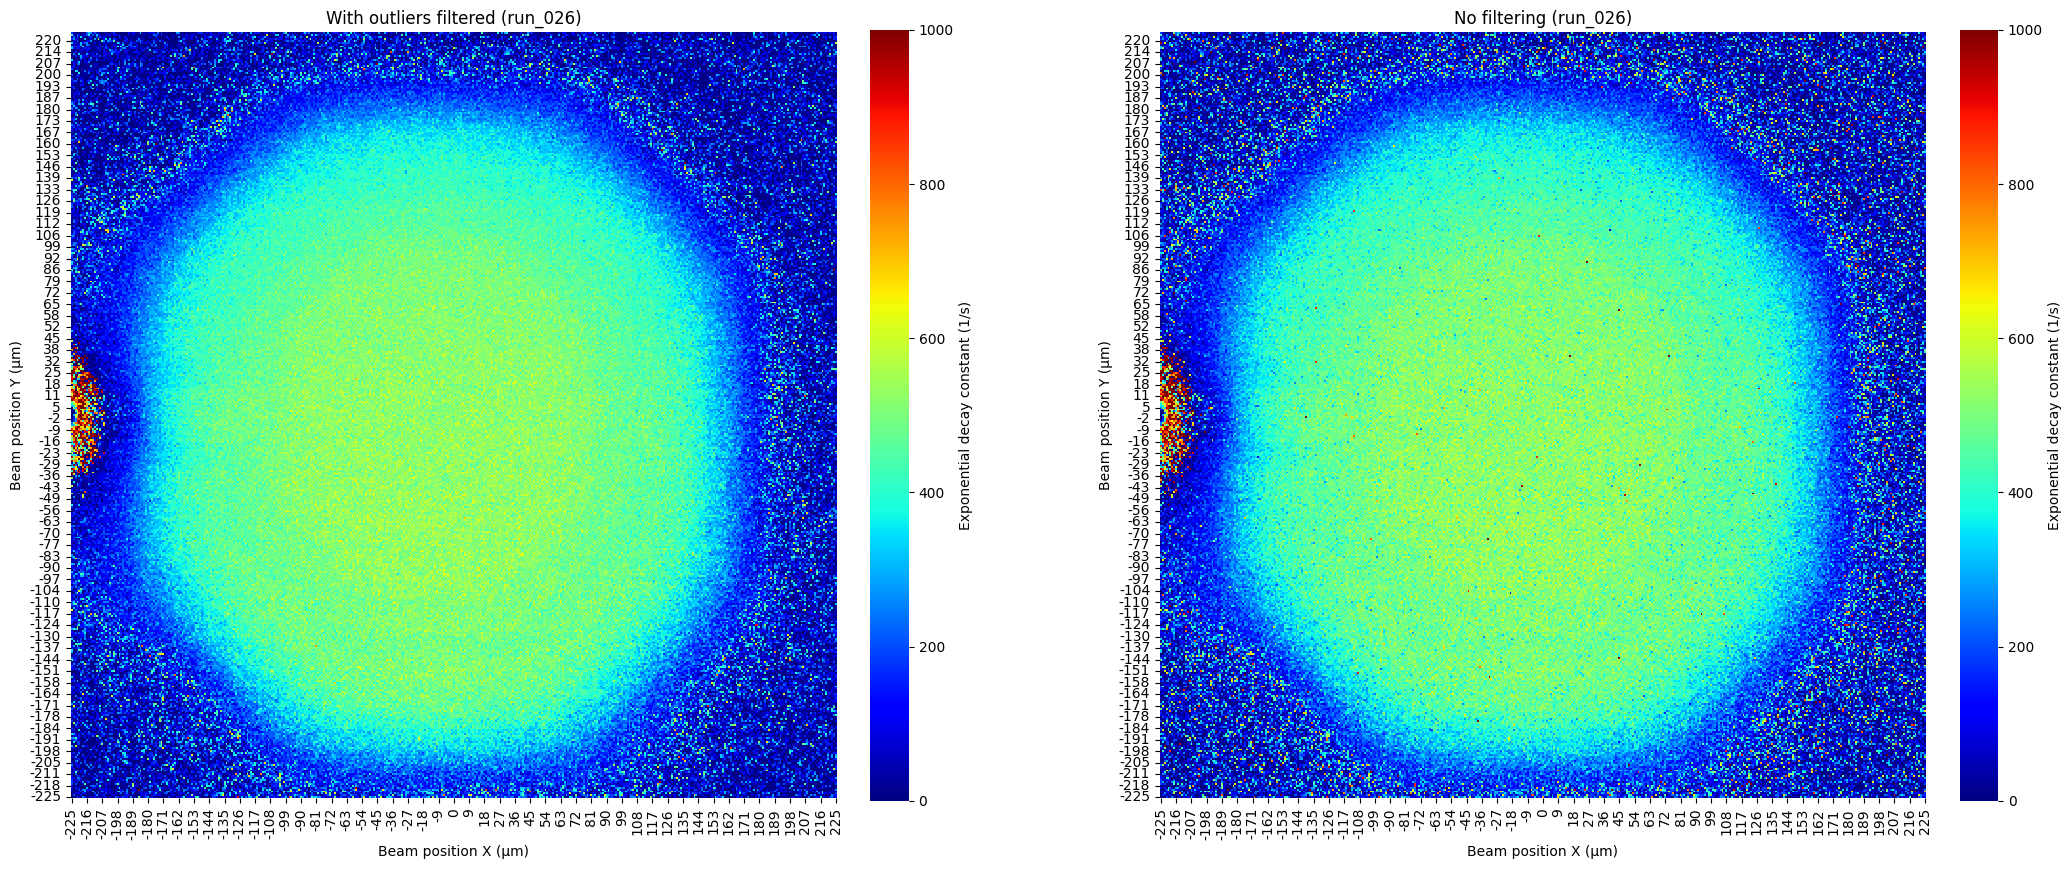
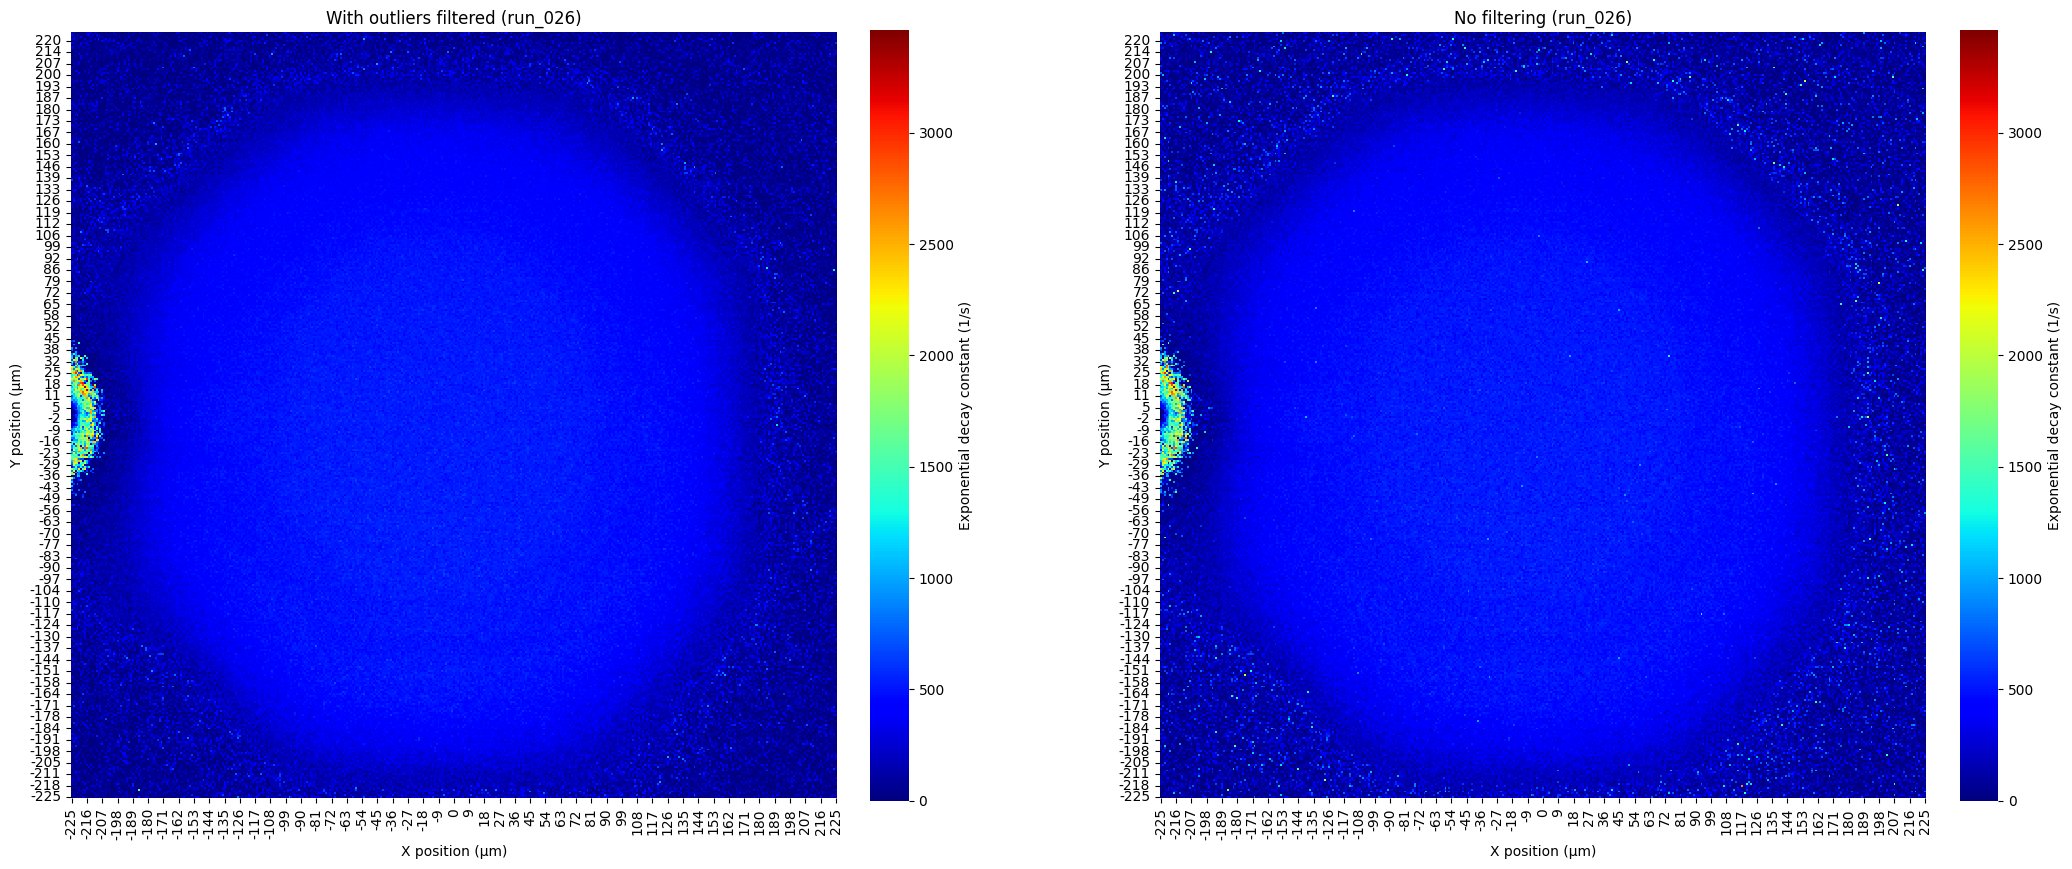
Added run plots

diff --git a/new/model_isolationforest.py b/new/model_isolationforest.py
@@ -188,6 +188,7 @@ def plot(df, df_filtered, run_number):
         ax=axs[1],
     )
 
+    # TODO ticks on axis in steps of 15 µm
     axs[0].set_title(f"With outliers filtered (run_{run_number:03d})")
     axs[0].set_xlabel("Beam position X (µm)")
     axs[0].set_ylabel("Beam position Y (µm)")
@@ -253,9 +254,7 @@ def plot_λ(df: pd.DataFrame, df_filtered: pd.DataFrame, run_number: int):
             "pad": 0.04,
         },
         cmap="jet",
-        ax=axs[0],
-        vmin=0,
-        vmax=1000,
+        ax=axs[0]
     )
     h2 = sns.heatmap(
         heatmap,
@@ -266,9 +265,7 @@ def plot_λ(df: pd.DataFrame, df_filtered: pd.DataFrame, run_number: int):
             "pad": 0.04,
         },
         cmap="jet",
-        ax=axs[1],
-        vmin=0,
-        vmax=1000,
+        ax=axs[1]
     )
 
     axs[0].set_title(f"With outliers filtered (run_{run_number:03d})")
